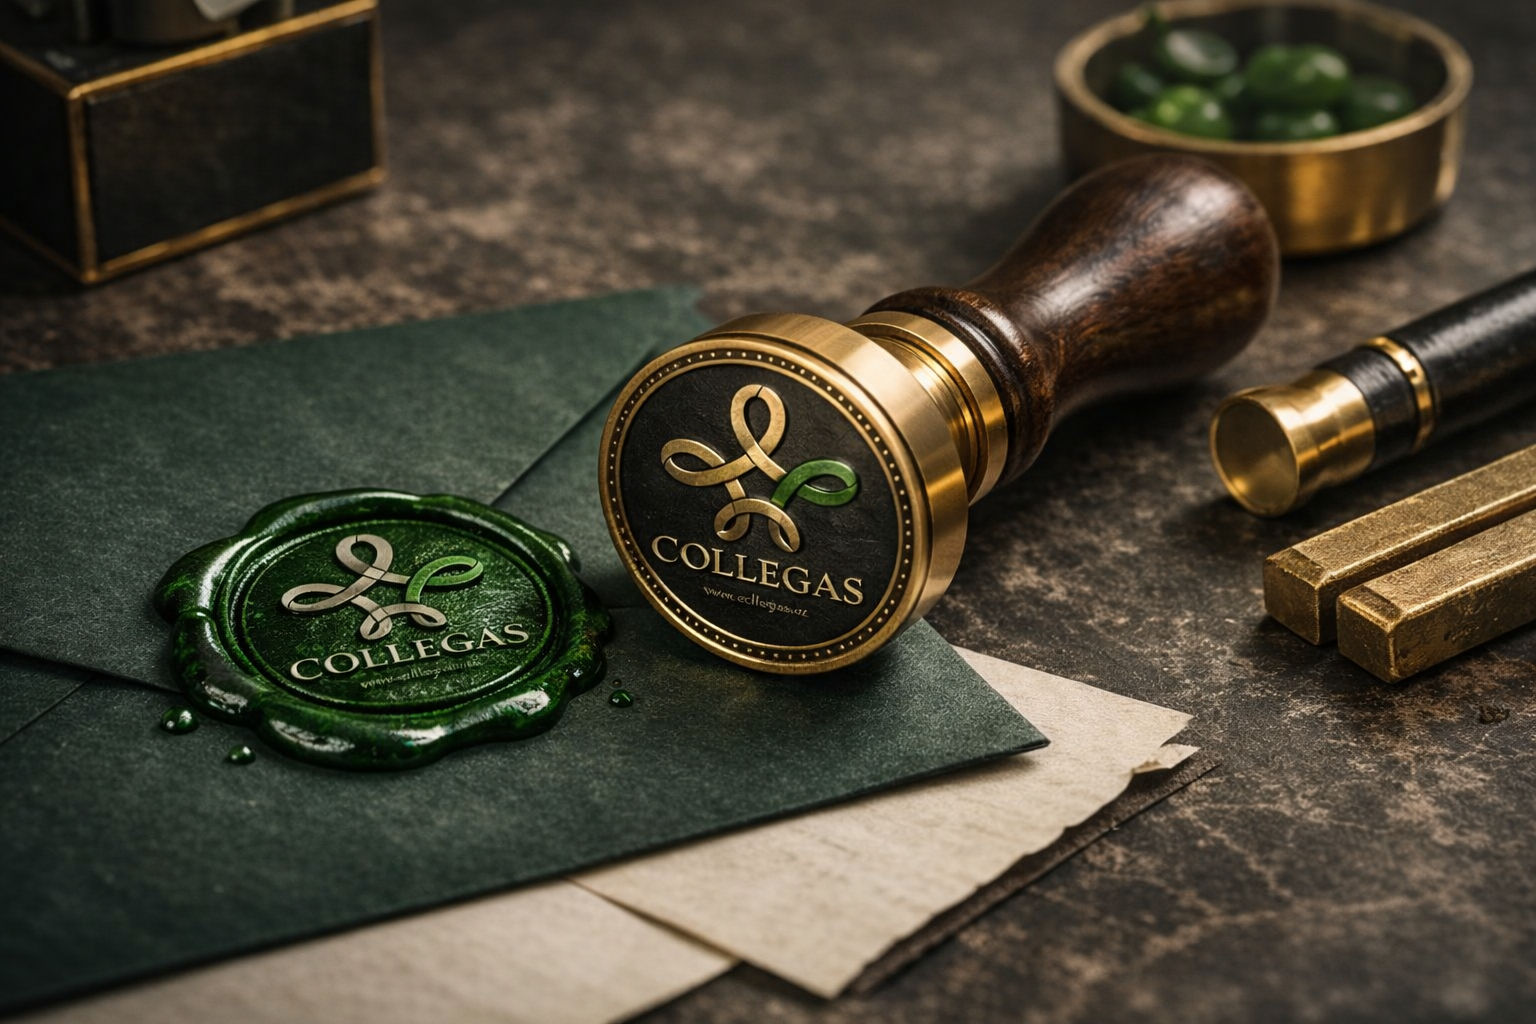
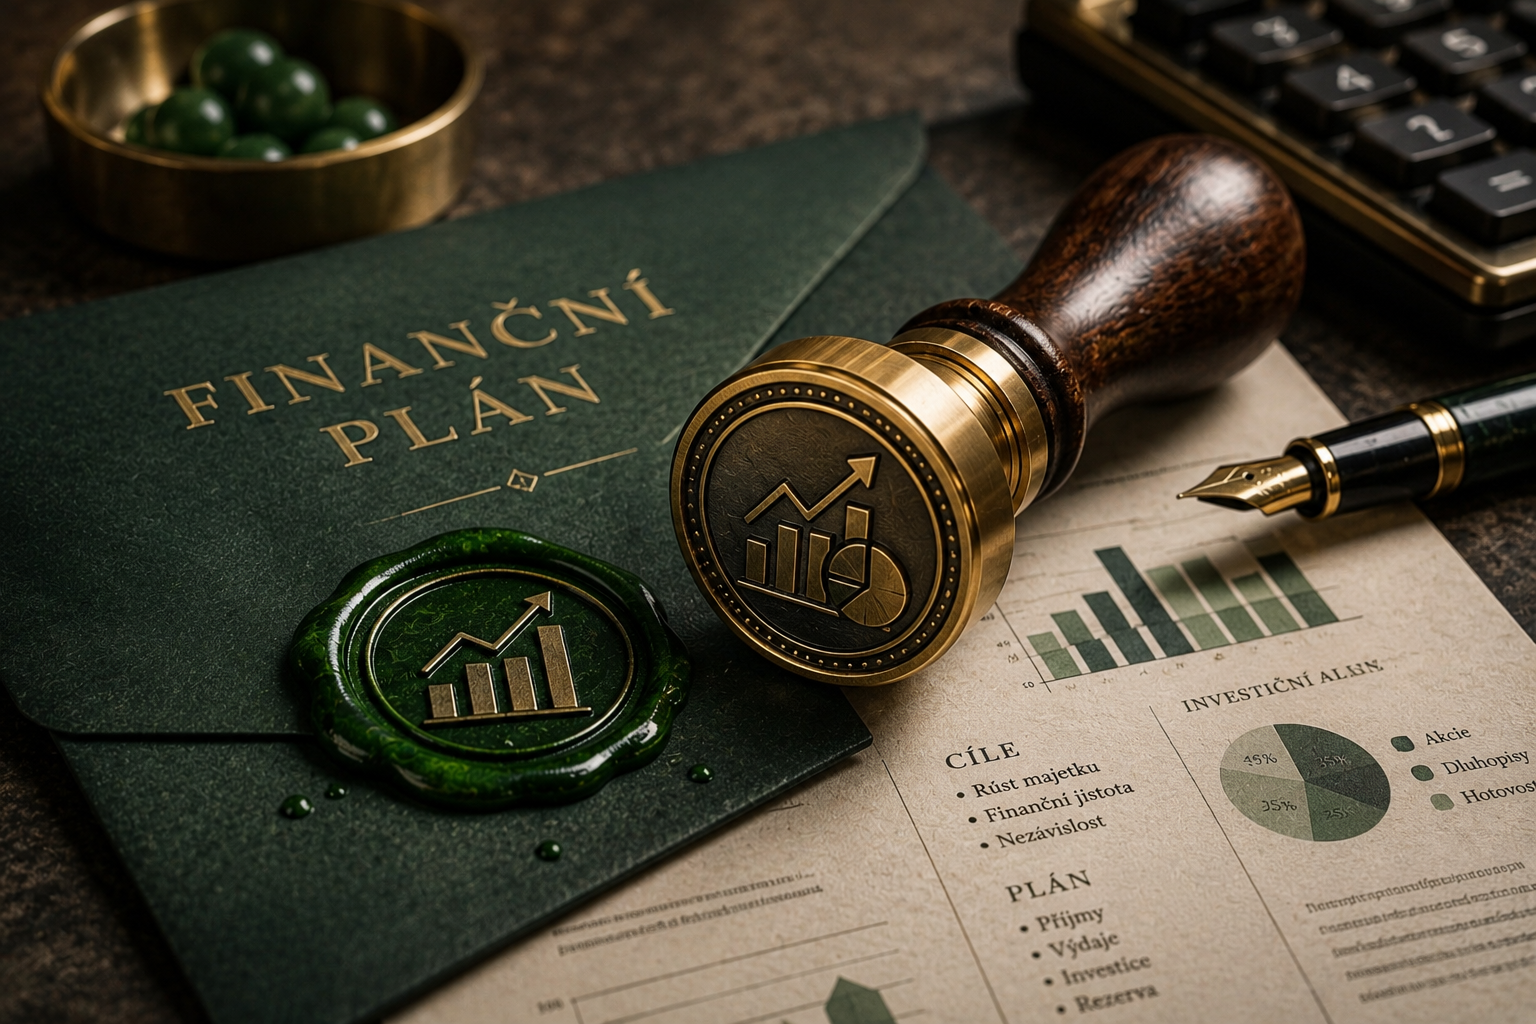
Update.

diff --git a/pages/services/real-estate-energy.vue b/pages/services/real-estate-energy.vue
@@ -124,7 +124,7 @@ const teamMembers = specialistSlugs
       </UiButton>
     </UiDarkBanner>
 
-    <CustomUserPic&desc bg-image="/img/intro/stamp.png" img-class="shadow-sm">
+    <CustomUserPic&desc bg-image="/img/other/compass.png" img-class="shadow-sm">
       <template #overlay>
         <span class="text-headline-lg md:text-display-xl leading-none"
           >20+</span
@@ -202,7 +202,7 @@ const teamMembers = specialistSlugs
           <div class="lg:col-span-8 space-y-section-gap">
             <UiImageText
               id="energy"
-              img-src="/img/intro/notes.png"
+              img-src="/img/other/energy_optimalization.png"
               img-alt="Energetická optimalizace"
               img-right
             >
@@ -229,7 +229,7 @@ const teamMembers = specialistSlugs
 
             <UiImageText
               id="real-estate"
-              img-src="/img/other/man.png"
+              img-src="/img/other/reality.png"
               img-alt="Realitní služby"
             >
               <div class="grid space-y-stack-md items-center from-bottom">
@@ -253,7 +253,7 @@ const teamMembers = specialistSlugs
 
             <UiImageText
               id="property-management"
-              img-src="/img/intro/notes.png"
+              img-src="/img/other/building.png"
               img-alt="Správa nemovitostí"
               img-right
             >
@@ -279,7 +279,7 @@ const teamMembers = specialistSlugs
 
             <UiImageText
               id="development"
-              img-src="/img/other/man.png"
+              img-src="/img/other/develop_project.png"
               img-alt="Developerské projekty"
             >
               <div class="grid space-y-stack-md items-center from-bottom">

diff --git a/pages/services/capital-management.vue b/pages/services/capital-management.vue
@@ -118,7 +118,7 @@ const teamMembers = specialistSlugs
       </UiButton>
     </UiDarkBanner>
 
-    <CustomUserPic&desc bg-image="/img/intro/stamp.png" img-class="shadow-sm">
+    <CustomUserPic&desc bg-image="/img/other/compass.png" img-class="shadow-sm">
       <template #overlay>
         <span class="text-headline-lg md:text-display-xl leading-none"
           >20+</span
@@ -195,7 +195,7 @@ const teamMembers = specialistSlugs
           <div class="lg:col-span-8 space-y-section-gap">
             <UiImageText
               id="asset-care"
-              img-src="/img/intro/notes.png"
+              img-src="/img/other/investment_property.png"
               img-alt="Péče o investiční majetek"
               img-right
             >
@@ -223,7 +223,7 @@ const teamMembers = specialistSlugs
 
             <UiImageText
               id="financing"
-              img-src="/img/other/man.png"
+              img-src="/img/other/financing.png"
               img-alt="Financování bydlení a projektů"
             >
               <div class="grid space-y-stack-md items-center from-bottom">
@@ -250,7 +250,7 @@ const teamMembers = specialistSlugs
 
             <UiImageText
               id="opportunities"
-              img-src="/img/intro/notes.png"
+              img-src="/img/other/compass.png"
               img-alt="Investiční příležitosti"
               img-right
             >

diff --git a/pages/services/finance.vue b/pages/services/finance.vue
@@ -113,7 +113,7 @@ const teamMembers = specialistSlugs
       </UiButton>
     </UiDarkBanner>
 
-    <CustomUserPic&desc bg-image="/img/intro/stamp.png" img-class="shadow-sm">
+    <CustomUserPic&desc bg-image="/img/other/compass.png" img-class="shadow-sm">
       <template #overlay>
         <span class="text-headline-lg md:text-display-xl leading-none"
           >20+</span
@@ -246,7 +246,7 @@ const teamMembers = specialistSlugs
 
             <UiImageText
               id="risk"
-              img-src="/img/other/wall.png"
+              img-src="/img/other/risk_headging.png"
               img-alt="Zajištění rizik"
               img-right
             >
@@ -274,7 +274,7 @@ const teamMembers = specialistSlugs
 
             <UiImageText
               id="compensation"
-              img-src="/img/other/building.png"
+              img-src="/img/other/compensation.png"
               img-alt="Odškodnění"
             >
               <div class="grid space-y-stack-md items-center from-bottom">

diff --git a/pages/services/tax-legal.vue b/pages/services/tax-legal.vue
@@ -113,7 +113,7 @@ const teamMembers = specialistSlugs
       </UiButton>
     </UiDarkBanner>
 
-    <CustomUserPic&desc bg-image="/img/intro/stamp.png" img-class="shadow-sm">
+    <CustomUserPic&desc bg-image="/img/other/compass.png" img-class="shadow-sm">
       <template #overlay>
         <span class="text-headline-lg md:text-display-xl leading-none"
           >20+</span
@@ -191,7 +191,7 @@ const teamMembers = specialistSlugs
           <div class="lg:col-span-8 space-y-section-gap">
             <UiImageText
               id="tax"
-              img-src="/img/intro/notes.png"
+              img-src="/img/other/tax_consult.png"
               img-alt="Daňové poradenství"
               img-right
             >

diff --git a/pages/about.vue b/pages/about.vue
@@ -169,7 +169,7 @@ const principles = [
       </UContainer>
     </section>
 
-    <CustomUserPic&desc bg-image="/img/intro/stamp.png" img-class="shadow-sm">
+    <CustomUserPic&desc bg-image="/img/other/compass.png" img-class="shadow-sm">
       <template #overlay>
         <span class="text-headline-lg md:text-display-xl leading-none"
           >20+</span